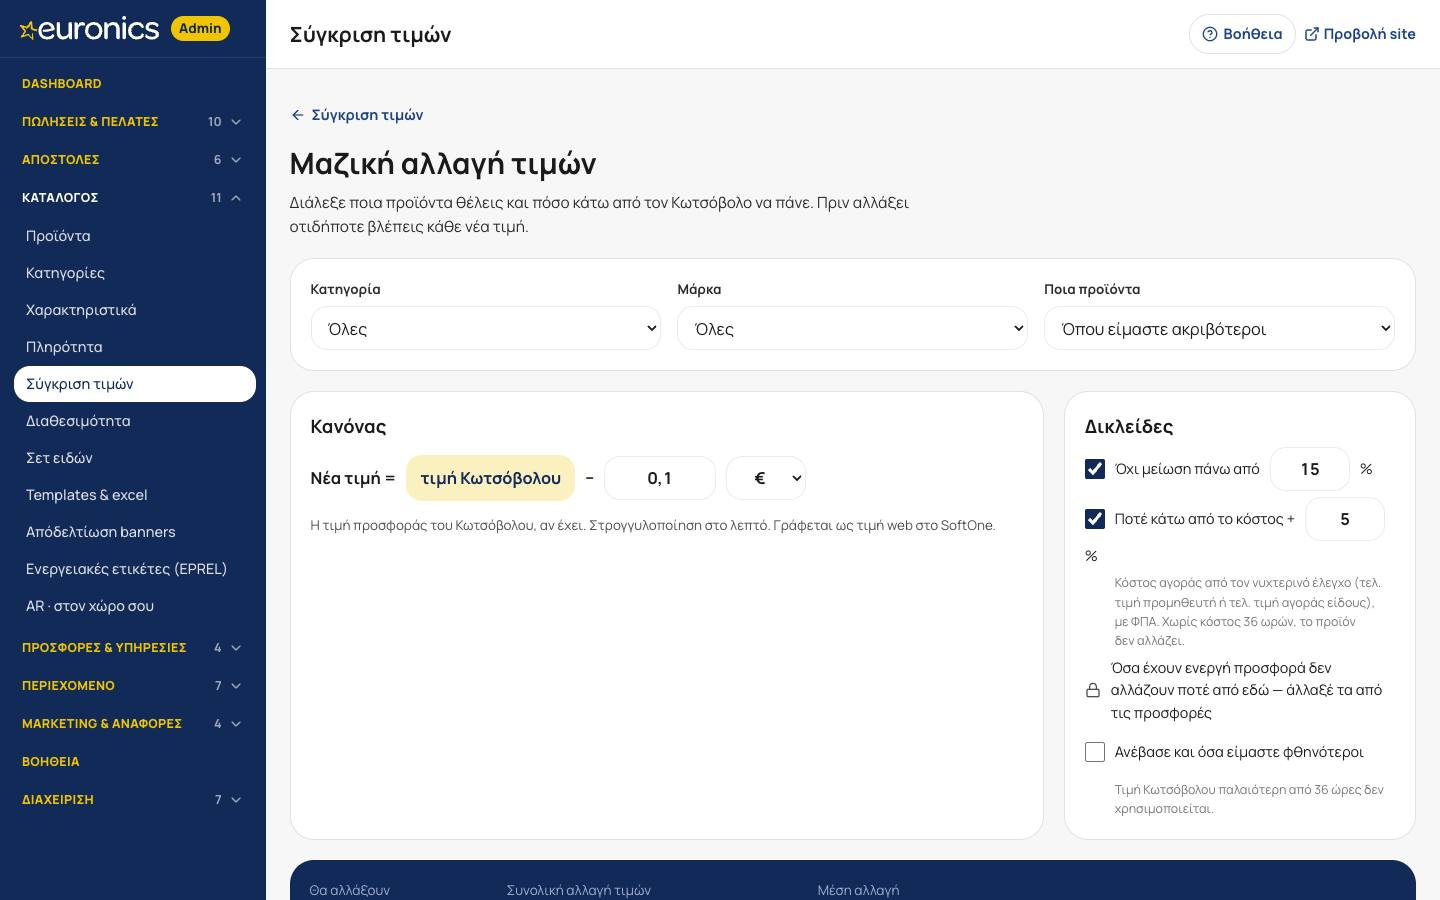
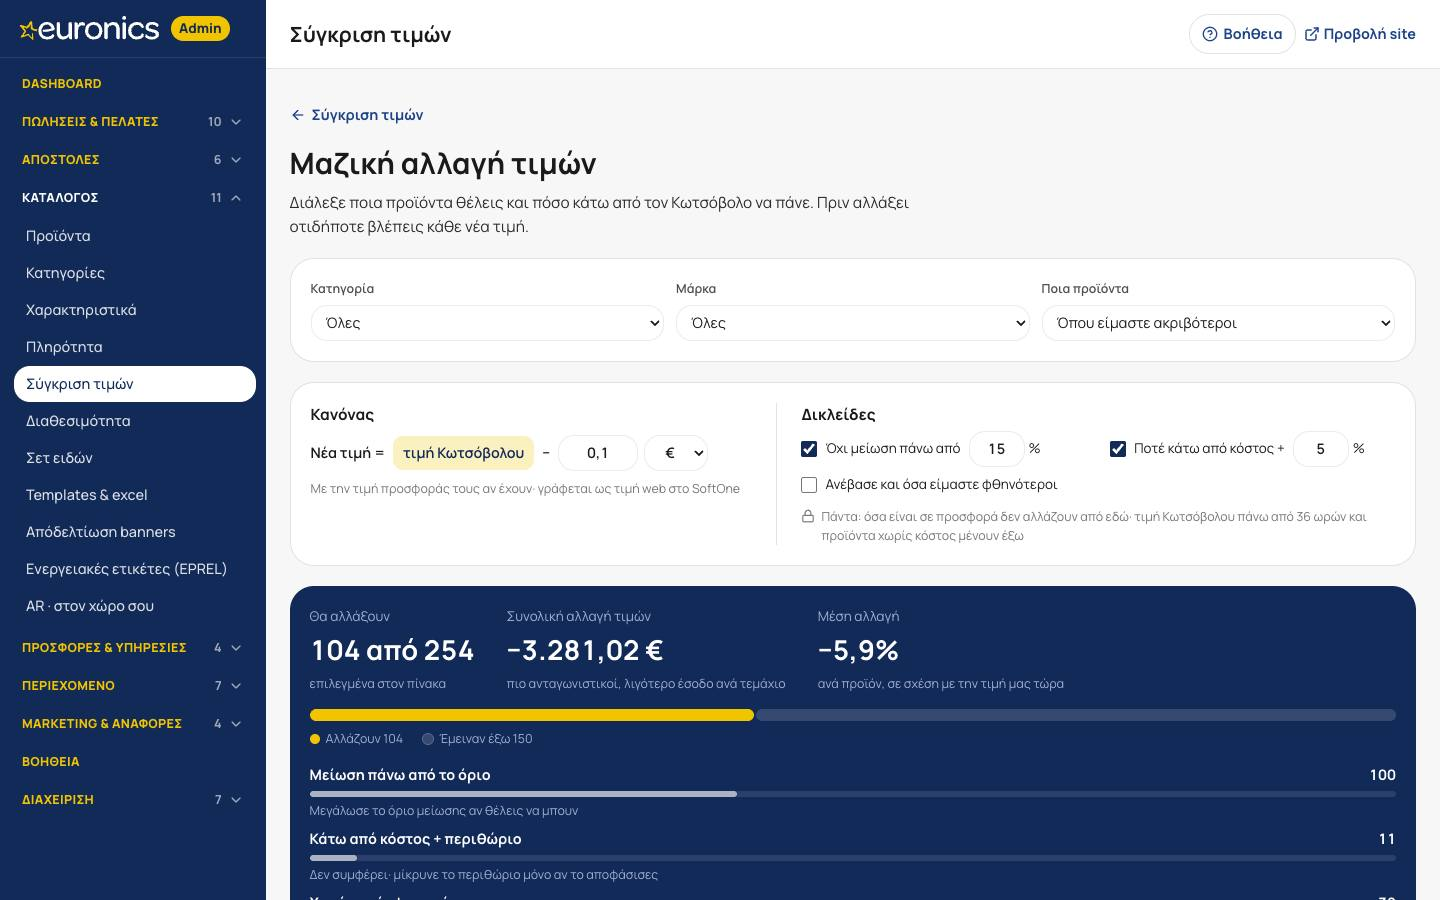
Μαζική αλλαγή τιμών: κανόνας και δικλείδες σε μία συμπαγή κάρτα χωρίς κενό ύψος, μικρότερα γράμματα σε φίλτρα, πεδία και λίστες επιλογής, το % μένει δίπλα στο πεδίο

diff --git a/lib/help/content/index.ts b/lib/help/content/index.ts
@@ -877,7 +877,7 @@ export const HELP_PAGES: HelpPage[] = [
     parts: [
       { key: "bulk-filters", title: "Φίλτρα", text: "Κατηγορία και μάρκα (μόνο όσες έχουν ζευγάρι με τον Κωτσόβολο) και «Όπου είμαστε ακριβότεροι» (προεπιλογή) ή «Όλα με ζευγάρι». Μετρούν μόνο τα σίγουρα ζευγάρια (αυτόματα ή επιβεβαιωμένα)· οι προτάσεις, τα «λάθος ζευγάρι» και όσα χάθηκαν δεν εμφανίζονται. Από το «−0,10 €» της σελίδας προϊόντος ανοίγει φιλτραρισμένη σε εκείνο το προϊόν· «Όλα τα προϊόντα» βγάζει το φίλτρο." },
       { key: "bulk-rule", title: "Κανόνας", text: "Νέα τιμή = τιμή Κωτσόβολου (η προσφορά τους, αλλιώς ο κατάλογος) μείον ποσό σε € ή ποσοστό, στρογγυλό στο λεπτό. Κάθε αλλαγή ξαναϋπολογίζει αμέσως την προεπισκόπηση." },
-      { key: "bulk-guards", title: "Δικλείδες", text: "Όλες ενεργές από προεπιλογή. «Όχι μείωση πάνω από 15%»: μεγαλύτερες μειώσεις μένουν έξω. «Ποτέ κάτω από το κόστος + Υ%»: σύγκριση με το κόστος αγοράς που διαβάζεται κάθε βράδυ από το SoftOne (τελ. τιμή προμηθευτή, ή τελ. τιμή αγοράς είδους όταν η πρώτη δεν επιβεβαιώνεται), με ΦΠΑ για να συγκρίνεται με την τιμή μας· προϊόν χωρίς κόστος των τελευταίων 36 ωρών δεν αλλάζει όσο η δικλείδα είναι ανοιχτή. Όσα έχουν ενεργή προσφορά δεν αλλάζουν ποτέ από εδώ (η τιμή τους ορίζεται από την προσφορά — άλλαξέ τα από τις Προσφορές). «Ανέβασε και όσα είμαστε φθηνότεροι»: κλειστό — αν το ανοίξεις, όσα είναι φθηνότερα ανεβαίνουν στο ίδιο σημείο, με δική του δικλείδα «Όχι αύξηση πάνω από 15%». Τιμή Κωτσόβολου παλαιότερη από 36 ώρες δεν χρησιμοποιείται ποτέ." },
+      { key: "bulk-guards", title: "Δικλείδες", text: "Δίπλα στον κανόνα, στην ίδια κάρτα (στο κινητό από κάτω). Όλες ενεργές από προεπιλογή· πέρνα τον δείκτη πάνω από τη δικλείδα κόστους για την πηγή του κόστους. «Όχι μείωση πάνω από 15%»: μεγαλύτερες μειώσεις μένουν έξω. «Ποτέ κάτω από το κόστος + Υ%»: σύγκριση με το κόστος αγοράς που διαβάζεται κάθε βράδυ από το SoftOne (τελ. τιμή προμηθευτή, ή τελ. τιμή αγοράς είδους όταν η πρώτη δεν επιβεβαιώνεται), με ΦΠΑ για να συγκρίνεται με την τιμή μας· προϊόν χωρίς κόστος των τελευταίων 36 ωρών δεν αλλάζει όσο η δικλείδα είναι ανοιχτή. Όσα έχουν ενεργή προσφορά δεν αλλάζουν ποτέ από εδώ (η τιμή τους ορίζεται από την προσφορά — άλλαξέ τα από τις Προσφορές). «Ανέβασε και όσα είμαστε φθηνότεροι»: κλειστό — αν το ανοίξεις, όσα είναι φθηνότερα ανεβαίνουν στο ίδιο σημείο, με δική του δικλείδα «Όχι αύξηση πάνω από 15%». Τιμή Κωτσόβολου παλαιότερη από 36 ώρες δεν χρησιμοποιείται ποτέ." },
       { key: "bulk-summary", title: "Σύνοψη και εφαρμογή", text: "Πόσα αλλάζουν από όσα βρέθηκαν, η συνολική και η μέση αλλαγή (μείον = φθηνότεροι). Η μπάρα δείχνει με μια ματιά: κίτρινο = αλλάζουν, ανοιχτό = τα ξετσέκαρες, σκούρο = έμειναν έξω. Από κάτω κάθε λόγος αποκλεισμού με το πλήθος και τι μπορείς να κάνεις. «Εφάρμοσε» ρωτά πρώτα και γράφει έως 50 προϊόντα τη φορά στο παρασκήνιο· η σελίδα δείχνει «Γράφτηκαν Χ από Ν» και στο τέλος πόσα άλλαξαν (μπορείς και να φύγεις από τη σελίδα). Είναι κλειδωμένο όταν δεν έχεις δικαίωμα συγχρονισμού ή όταν η εγγραφή τιμής web στο SoftOne δεν είναι ενεργή — το κείμενο κάτω από το κουμπί λέει γιατί. Αν κάποιος άλλαξε την τιμή web στο μεταξύ, εκείνο το προϊόν δεν γράφεται." },
       { key: "bulk-table", title: "Προϊόντα", text: "Ανά προϊόν: τιμή μας τώρα (με την προσφορά, όπως τη βλέπει ο επισκέπτης), Κωτσόβολος, νέα τιμή, αλλαγή σε € και %. Πράσινο = μείωση, μπλε = αύξηση. Στη σημείωση: γιατί έμεινε έξω, ή το κόστος και από πού ήρθε. Ξετσέκαρε όσα δεν θέλεις να αλλάξουν. Στο κινητό κάθε προϊόν είναι κάρτα. Η τιμή του Κωτσόβολου ανοίγει τη σελίδα του (↗, νέα καρτέλα). Η σημείωση λέει με δύο λέξεις γιατί ένα προϊόν δεν αλλάζει (η πλήρης εξήγηση στο πέρασμα του ποντικιού) και το χρώμα του εικονιδίου έχει νόημα: κόκκινο = κάτω από το κόστος, κεχριμπαρί = πολύ μεγάλη αλλαγή (θέλει ματιά, ίσως λάθος ζευγάρι), μπλε = σε προσφορά, γκρι = λείπουν στοιχεία, πράσινο = ήδη εντάξει. Κάτω από την τιμή του Κωτσόβολου ένα σήμα δείχνει πόσο ακριβότεροι (κόκκινο ▲) ή φθηνότεροι (πράσινο ▼) είμαστε σήμερα. Η ζυγαριά στο τέλος κάθε γραμμής («Ίδιο προϊόν;») ανοίγει τα δύο προϊόντα δίπλα-δίπλα: «Ναι, ίδιο προϊόν» το κλειδώνει ως σίγουρο ζευγάρι, «Όχι, άλλο» το βγάζει από τη σύγκριση — χρήσιμο στις μεγάλες διαφορές (π.χ. «Μείωση πάνω από το όριο»)." },
       { key: "bulk-history", title: "Ιστορικό αλλαγών", text: "Οι τελευταίες παρτίδες: πότε, ποιος, πόσα άλλαξαν, πόσα όχι και γιατί. «Αναίρεση» γυρίζει στο παρασκήνιο τις προηγούμενες τιμές μόνο όπου η τιμή web είναι ακόμη αυτή που βάλαμε· όσες άλλαξε στο μεταξύ κάποιος άλλος μένουν και γράφεται «άλλαξαν από άλλον». Όσες δεν γύρισαν ξαναδοκιμάζονται με «Ξαναδοκίμασε αναίρεση (Ν)». Όσο τρέχει μια εφαρμογή ή αναίρεση, η παρτίδα δείχνει την πρόοδο και τα κουμπιά περιμένουν. Κάθε εφαρμογή και αναίρεση καταγράφεται στο αρχείο ενεργειών." },
